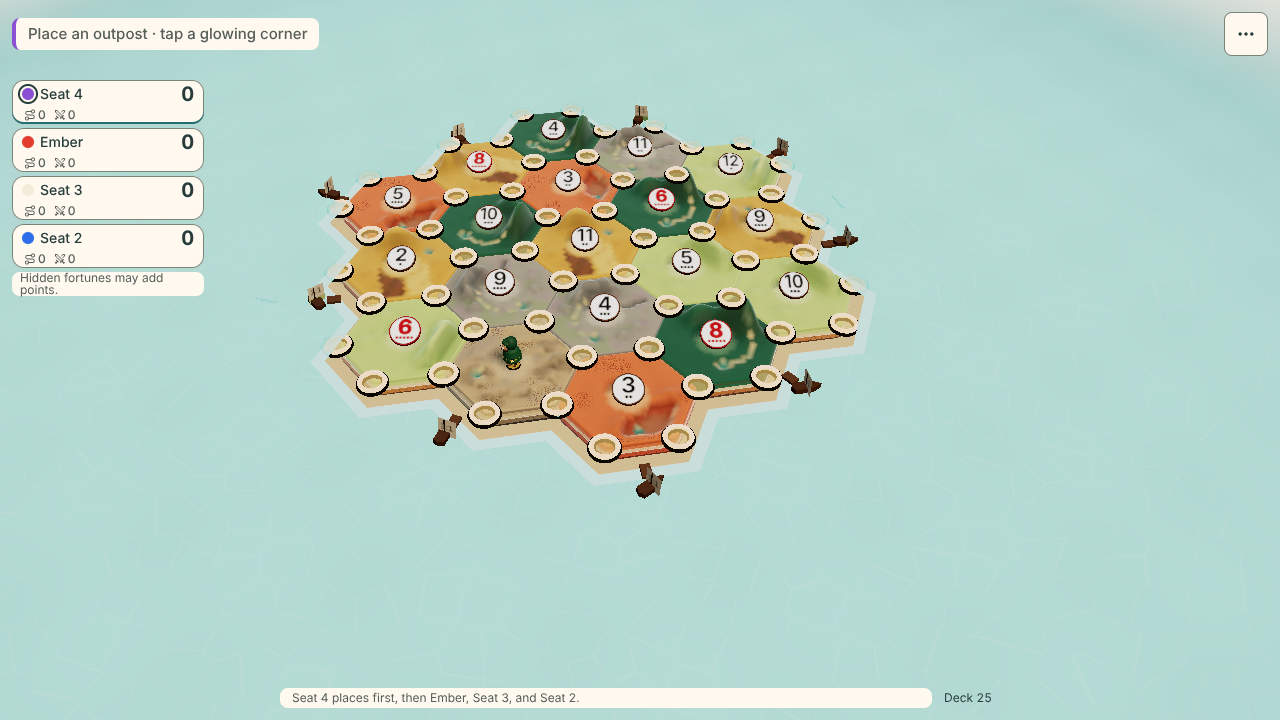
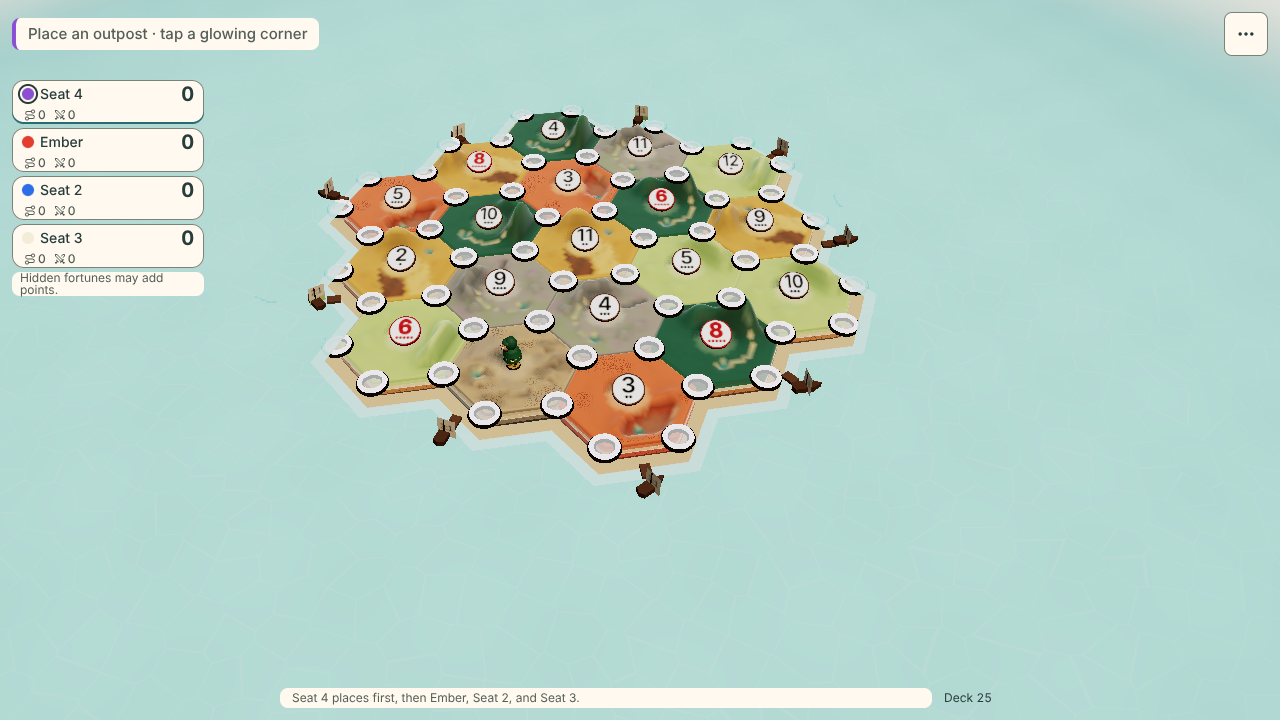
#830: legal corners glow plain white (owner q848-glow-v2, "Keep it white")
Rings' emissive and discs now use RING_GLOW = 0xffffff, a plain white. The
paying-piece glow keeps WARM_GLOW (0xffd27a); the dark outline still carries
the contrast; road bars are unchanged. placement-glow-prove now pins the
colour: every ring's emissive and every disc is 0xffffff (fails on the
orange-white value). Pictures retaken; the orange-white set is kept under
docs/proofs/830/orange-q848/ for the before/after.

Adopted by Claude Opus 5.5 (builder 2)

Claude-Session: https://claude.ai/code/session_016gCXkyBZzNk47SqHsdrRkS

diff --git a/src/lib/scene/isle-renderer.ts b/src/lib/scene/isle-renderer.ts
@@ -111,9 +111,10 @@ const VERTEX_RING = { radius: 0.2, tube: 0.04, outline: 0.025, outlineColor: 0x1
 // high for the outpost, 0.086 for the keep (pieces-jelly.ts: (0.04 + 0.035) * 1.15). The ring (outer radius 0.265 with its
 // outline, 0.53 across, under HEX_SIZE / 2) cannot widen past it, so on those corners the mark lifts to rest on the base.
 const PIECE_BASE_TOP = 0.09;
-// The warm orange-white glow a paying piece takes on a roll. The legal-corner rings and discs use the same glow (#830, owner
-// direction q848-glow: "use our other glow we already use elsewhere"), so both read as one family.
+// The warm orange-white glow a paying piece takes on a roll.
 const WARM_GLOW = 0xffd27a;
+// The legal-corner rings and discs glow plain white (#830, owner q848-glow-v2: "Keep it white"); the dark outline carries the contrast.
+const RING_GLOW = 0xffffff;
 
 // The two views in play (docs/design/camera-light.md). Overhead: a frustum and a look-at point from the fit to the HUD hole,
 // and the eye on an orbit around that point, ORBIT_RADIUS out. Diorama (the default, #597): a perspective eye on an orbit
@@ -1904,8 +1905,8 @@ export class IsleRenderer {
     const seat = new THREE.Color(state.players.find((p) => p.id === state.current)?.color ?? "#fff6e8");
     // The glow leans toward cream so a dark seat (Pine) still reads on forest at the pulse trough; the hue stays the seat's.
     const glow = seat.clone().lerp(new THREE.Color(0xfff6e8), 0.35);
-    // The corner rings glow with the paying-piece warm glow (#830); the path bars keep the seat glow above.
-    const ringGlow = new THREE.Color(WARM_GLOW);
+    // The corner rings glow plain white (#830); the path bars keep the seat glow above.
+    const ringGlow = new THREE.Color(RING_GLOW);
 
     const legalVertices = state.vertices.filter((v) => vset.has(v.id));
     if (legalVertices.length > 0) {
@@ -1917,7 +1918,7 @@ export class IsleRenderer {
       outlines.userData = { kind: "vertex-outlines" };
 
       const discGeo = new THREE.CircleGeometry(VERTEX_RING.radius, 32);
-      const discMat = new THREE.MeshBasicMaterial({ color: WARM_GLOW, transparent: true, opacity: 0.3, depthWrite: false, depthTest: false });
+      const discMat = new THREE.MeshBasicMaterial({ color: RING_GLOW, transparent: true, opacity: 0.3, depthWrite: false, depthTest: false });
       const discs = new THREE.InstancedMesh(discGeo, discMat, legalVertices.length);
       discs.renderOrder = 99;
       discs.userData = { kind: "vertex-discs" };
